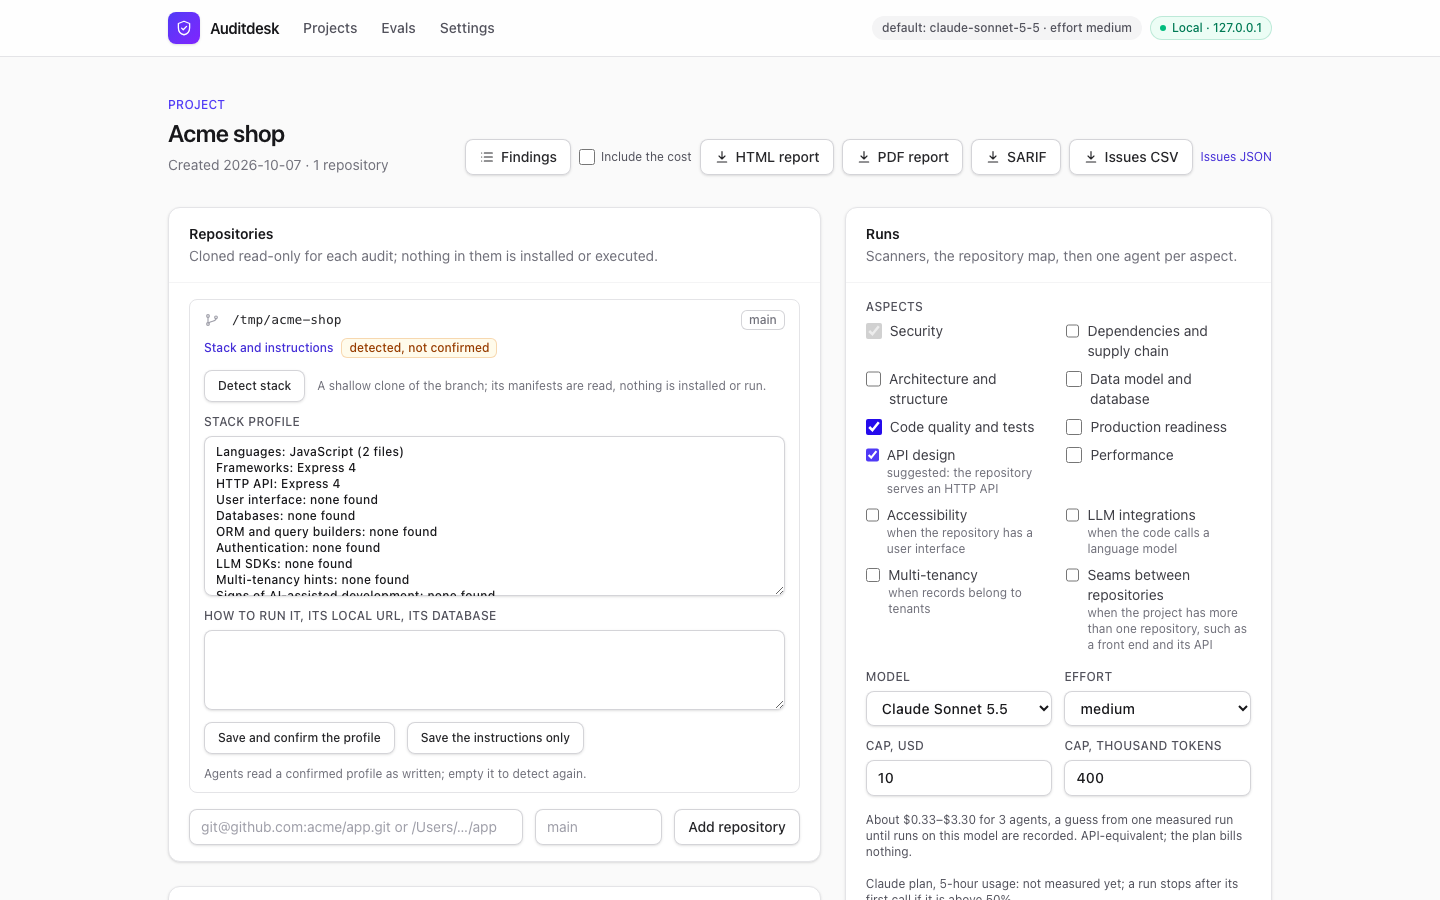
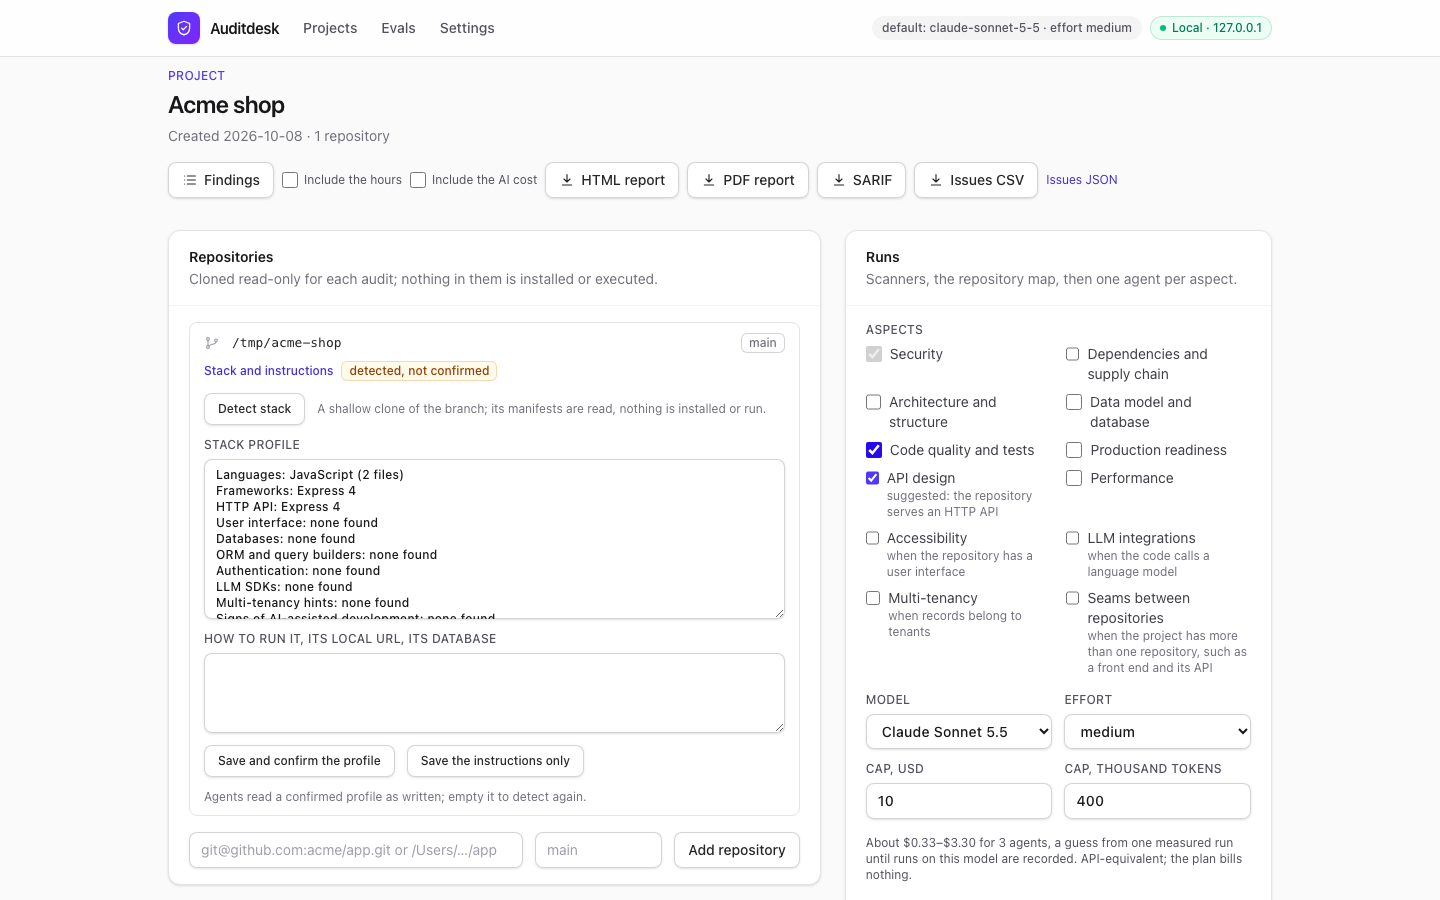
fix(effort): the review's findings on the hours
- The summary names a list with nothing sized ("no estimate to fix before sign-off") and the
  findings left out of the totals by label, instead of dropping them without a word.
- The legend of the sizes shows whenever a card shows one, a question's included.
- The migration resizes a finding whose hours it copies, and lifts 0 h to 1 h.
- Hours above 999 are refused, so a model's absurd range is sent back to it instead of failing
  the run at the integer column.
- The editor's two fields are read by hoursFrom, under test; the Issues CSV route is tested with
  and without hours, and exportOptions too.
- The tour exports with the hours; the README's findings and project shots are retaken.
- Design citations and the scanners' sizing corrected.

diff --git a/src/engine/report/render.ts b/src/engine/report/render.ts
@@ -249,18 +249,16 @@ document.addEventListener("click",ev=>{if(ev.defaultPrevented||ev.button||ev.met
 const a=ev.target.closest&&ev.target.closest('a[href^="#"]');if(a)reveal(decodeURIComponent(a.getAttribute("href").slice(1)))});
 window.addEventListener("hashchange",fromHash);fromHash();label();})();`;
 
-/** The effort line and the sizes' legend: by size alone, or in hours when the export includes them. */
-function effortSummary(fixFirst: ReportFinding[], canWait: ReportFinding[], hours: boolean): { line: string; legend?: string } | null {
+/** The effort line: findings counted by size, or their hours totalled per list when the export includes them. */
+function effortSummary(fixFirst: ReportFinding[], canWait: ReportFinding[], hours: boolean): string | null {
     const all = [...fixFirst, ...canWait];
     if (!all.length) return null;
-    const unsized = all.filter(f => !f.effort && !f.effortHours).length;
-    if (unsized === all.length) return { line: "Effort: not estimated." };
-    const notSized = unsized ? [`${unsized} not sized`] : [];
-    const legend = `Sizes: ${SIZES.map(s => `${s.size} ${s.span}`).join(", ")}.`;
+    const unsized = all.filter(f => !f.effort && !f.effortHours);
+    if (unsized.length === all.length) return "Effort: not estimated.";
     if (!hours) {
         const counts = SIZES.map(s => [all.filter(f => f.effort === s.size).length, s.size] as const).filter(([n]) => n);
         const parts = counts.map(([n, size], i) => `${i ? n : plural(n, "finding", "findings")} sized ${size}`);
-        return { line: `Estimated effort: ${listed([...parts, ...notSized])}.`, legend };
+        return `Estimated effort: ${listed([...parts, ...(unsized.length ? [`${unsized.length} not sized`] : [])])}.`;
     }
     const groups = (
         [
@@ -268,16 +266,26 @@ function effortSummary(fixFirst: ReportFinding[], canWait: ReportFinding[], hour
             ["for what can wait", canWait]
         ] as const
     )
-        .map(([what, list]) => ({ what, list, total: totalHours(list) }))
-        .filter(g => g.list.length > g.total.unsized);
-    const whole = totalHours(all);
-    const line =
-        `Estimated effort: ${groups.map(g => `${formatTotal(g.total)} ${g.what}`).join(" and ")}` +
-        (groups.length > 1 ? `, ${formatTotal(whole)} in all` : "") +
-        (unsized ? `, plus ${plural(unsized, "finding", "findings")} not sized` : "") +
-        ".";
-    const bySize = whole.bySize ? ` Findings without hours count at the range of their size: ${BY_SIZE_TEXT.join(", ")}.` : "";
-    return { line, legend: legend + bySize };
+        .filter(([, list]) => list.length)
+        .map(([what, list]) => {
+            const total = totalHours(list);
+            return { what, total, sized: list.length > total.unsized };
+        });
+    return (
+        `Estimated effort: ${groups.map(g => (g.sized ? `${formatTotal(g.total)} ${g.what}` : `no estimate ${g.what}`)).join(" and ")}` +
+        (groups.filter(g => g.sized).length > 1 ? `, ${formatTotal(totalHours(all))} in all` : "") +
+        "." +
+        (unsized.length ? ` Not sized, so left out of the totals: ${listed(unsized.map(f => f.label))}.` : "")
+    );
+}
+
+/** Whenever a card shows a size, a question's too; with hours, how a size alone counts in the totals. */
+function sizesLegend(findings: ReportFinding[], questions: ReportFinding[], hours: boolean): string | null {
+    if (![...findings, ...questions].some(f => f.effort)) return null;
+    const legend = `Sizes: ${SIZES.map(s => `${s.size} ${s.span}`).join(", ")}.`;
+    return hours && totalHours(findings).bySize
+        ? `${legend} Findings without hours count at the range of their size: ${BY_SIZE_TEXT.join(", ")}.`
+        : legend;
 }
 
 /** The model calls' cost: billed dollars and the plan's API-equivalent ones never added together. */
@@ -388,7 +396,8 @@ export function renderReport(d: ReportData): string {
         list.length
             ? `<ul class="risks">${list.map(f => `<li>${badge(f)}<a class="fid" href="#${e(f.label)}">${e(f.label)}</a><span>${e(f.title)}</span><span class="aside">${e(aside(f))}</span></li>`).join("")}</ul>`
             : `<p class="muted">${e(none)}</p>`;
-    const effort = effortSummary(fixFirst, canWait, d.hours);
+    const effortLine = effortSummary(fixFirst, canWait, d.hours);
+    const legend = sizesLegend(findings, d.questions, d.hours);
     const titleList = (list: ReportFinding[]) =>
         list.length
             ? `<ul>${list.map(f => `<li>${badge(f)}<a class="fid" href="#${e(f.label)}">${e(f.label)}</a><span>${e(f.title)}</span></li>`).join("")}</ul>`
@@ -509,8 +518,8 @@ ${riskList(fixFirst, "Nothing needs fixing before sign-off.")}
 ${canWait.length ? `<p class="muted">Still to fix, after sign-off.</p>` : ""}
 ${riskList(canWait, "Nothing else was found.")}
 ${d.questions.length ? `<p>${d.questions.length === 1 ? "1 open question needs the team's answer." : `${d.questions.length} open questions need the team's answers.`}</p>` : ""}
-${effort ? `<p>${e(effort.line)}</p>` : ""}
-${effort?.legend ? `<p class="muted">${e(effort.legend)}</p>` : ""}
+${effortLine ? `<p>${e(effortLine)}</p>` : ""}
+${legend ? `<p class="muted">${e(legend)}</p>` : ""}
 </section>
 ${since(d, findings)}
 

diff --git a/src/engine/report/render.test.ts b/src/engine/report/render.test.ts
@@ -735,11 +735,39 @@ describe("renderReport", () => {
                     hours: true,
                     findings: [
                         finding({ label: "F-001", severity: "critical", effort: "L" }),
-                        finding({ label: "F-002", severity: "low", effort: null })
+                        finding({ label: "F-002", severity: "high", effort: null }),
+                        finding({ label: "F-003", severity: "low", effort: "S", effortHours: { low: 1, high: 2 } })
                     ]
                 })
             );
-            expect(summary(html)).toContain("Estimated effort: 16 h or more to fix before sign-off, plus 1 finding not sized.");
+            expect(summary(html)).toContain(
+                "Estimated effort: 16 h or more to fix before sign-off and 1–2 h for what can wait, 17 h or more in all. Not sized, so left out of the totals: F-002."
+            );
+        });
+
+        it("says a list has no estimate when none of its findings is sized", () => {
+            const html = renderReport(
+                data({
+                    hours: true,
+                    findings: [
+                        finding({ label: "F-001", severity: "critical", effort: null }),
+                        finding({ label: "F-002", severity: "low", effort: "M", effortHours: { low: 4, high: 8 } })
+                    ]
+                })
+            );
+            expect(summary(html)).toContain(
+                "Estimated effort: no estimate to fix before sign-off and 4–8 h for what can wait. Not sized, so left out of the totals: F-001."
+            );
+        });
+
+        it("gives the legend whenever a card shows a size, a question's included", () => {
+            const question = finding({ label: "F-003", severity: null, effort: "S" });
+            const legend = "Sizes: S up to 2 hours, M up to 2 days, L over 2 days.";
+            expect(summary(renderReport(data({ findings: [], questions: [question] })))).toContain(legend);
+            const unsized = summary(renderReport(data({ findings: [finding({ effort: null })], questions: [question] })));
+            expect(unsized).toContain("Effort: not estimated.");
+            expect(unsized).toContain(legend);
+            expect(summary(renderReport(data({ findings: [finding({ effort: null })] })))).not.toContain("Sizes:");
         });
     });
 

diff --git a/src/app/ReportExport.tsx b/src/app/ReportExport.tsx
@@ -7,9 +7,9 @@ const count = (n: number, noun: string) => `${n} ${noun}${n === 1 ? "" : "s"}`;
 
 /**
  * The report downloads, with the findings' hours and the run's cost stated only when Andrii ticks
- * them (design § 8). SARIF is one file per repository, since an upload goes to one; the button's
- * name and value carry it. What awaits review is named beside them: the exports leave it out, and
- * an empty file looks broken.
+ * them (cost: design § 8; hours: § 10). SARIF is one file per repository, since an upload goes to
+ * one; the button's name and value carry it. What awaits review is named beside them: the exports
+ * leave it out, and an empty file looks broken.
  */
 export async function ReportExport({ projectId }: { projectId: string }) {
     const repositories = await reportRepositoryNames(projectId);
@@ -28,7 +28,10 @@ export async function ReportExport({ projectId }: { projectId: string }) {
                     <input type="checkbox" name="hours" value="1" className="size-4 rounded border-zinc-300 accent-indigo-600" />
                     Include the hours
                 </label>
-                <label className="flex items-center gap-1.5 text-xs text-zinc-600" title="What the model calls cost, in the HTML and the PDF">
+                <label
+                    className="flex items-center gap-1.5 text-xs text-zinc-600"
+                    title="What the model calls cost, in the HTML and the PDF"
+                >
                     <input type="checkbox" name="cost" value="1" className="size-4 rounded border-zinc-300 accent-indigo-600" />
                     Include the AI cost
                 </label>

diff --git a/src/app/review-actions.ts b/src/app/review-actions.ts
@@ -4,6 +4,7 @@ import { revalidatePath } from "next/cache";
 import { redirect } from "next/navigation";
 
 import type { FormState } from "@/app/actions";
+import { hoursFrom } from "@/engine/effort";
 import { readPlanUsage, reserveRefusal } from "@/engine/plan-usage";
 import type { SeverityName } from "@/engine/types";
 import { prisma } from "@/server/db";
@@ -53,9 +54,6 @@ export async function excludeAction(id: string, _prev: FormState, fd: FormData):
 }
 
 export async function editAction(id: string, _prev: FormState, fd: FormData): Promise<FormState> {
-    // One end alone is a single number of hours.
-    const low = optional(fd, "effortHoursLow");
-    const high = optional(fd, "effortHoursHigh");
     const r = await refusal(() =>
         edit(id, {
             title: text(fd, "title"),
@@ -66,7 +64,7 @@ export async function editAction(id: string, _prev: FormState, fd: FormData): Pr
             explanation: text(fd, "explanation"),
             recommendation: text(fd, "recommendation"),
             effort: optional(fd, "effort") as "S" | "M" | "L" | null,
-            effortHours: low || high ? { low: Number(low ?? high), high: Number(high ?? low) } : null,
+            effortHours: hoursFrom(optional(fd, "effortHoursLow"), optional(fd, "effortHoursHigh")),
             fixBeforeSignoff: { before: true, later: false }[text(fd, "signoff")] ?? null,
             note: optional(fd, "note")
         })

diff --git a/src/engine/effort.test.ts b/src/engine/effort.test.ts
@@ -1,6 +1,6 @@
 import { describe, expect, it } from "vitest";
 
-import { formatHours, formatTotal, hoursError, sizeAndHours, sizeOf, totalHours } from "./effort";
+import { formatHours, formatTotal, hoursError, hoursFrom, sizeAndHours, sizeOf, totalHours } from "./effort";
 
 describe("effort", () => {
     it("sizes a range by its high end, so the letter never contradicts the hours", () => {
@@ -25,6 +25,14 @@ describe("effort", () => {
         expect(hoursError({ low: 0, high: 2 })).toMatch(/from 1/);
         expect(hoursError({ low: 1.5, high: 2 })).toMatch(/whole/);
         expect(hoursError({ low: 4, high: 2 })).toMatch(/low .* high/);
+        expect(hoursError({ low: 1, high: 1000 })).toMatch(/split/);
+    });
+
+    it("reads the editor's two fields: both, one alone as a single number, or neither", () => {
+        expect(hoursFrom("2", "4")).toEqual({ low: 2, high: 4 });
+        expect(hoursFrom(null, "3")).toEqual({ low: 3, high: 3 });
+        expect(hoursFrom("3", null)).toEqual({ low: 3, high: 3 });
+        expect(hoursFrom(null, null)).toBeNull();
     });
 
     it("adds the hours set, counts a finding with only a size at its size's range, and leaves the unsized out", () => {

diff --git a/src/server/report.test.ts b/src/server/report.test.ts
@@ -4,7 +4,7 @@ import type { ReportData } from "@/engine/report/types";
 import { EMPTY_STACK } from "@/engine/stack";
 import { prisma } from "@/server/db";
 import { createFinding } from "@/server/findings";
-import { awaitingReview, loadReportData, reportFileName } from "@/server/report";
+import { awaitingReview, exportOptions, loadReportData, reportFileName } from "@/server/report";
 import { resetDb } from "@/test/db";
 import { projectWithRepo, sampleFinding } from "@/test/factories";
 
@@ -378,6 +378,11 @@ describe("the cost in the report", () => {
 });
 
 describe("the hours in the report", () => {
+    it("reads both boxes from the export's query", () => {
+        expect(exportOptions("http://127.0.0.1/p/report?hours=1&cost=1")).toEqual({ includeCost: true, includeHours: true });
+        expect(exportOptions("http://127.0.0.1/p/report")).toEqual({ includeCost: false, includeHours: false });
+    });
+
     it("carries each finding's hours only when the export asks for them", async () => {
         const { project, repo } = await projectWithRepo();
         const f = await createFinding(project.id, null, sampleFinding(repo.id, { effort: "M", effortHours: { low: 2, high: 4 } }));

diff --git a/e2e/tour.spec.ts b/e2e/tour.spec.ts
@@ -115,12 +115,12 @@ test("tour of the features", async ({ page }) => {
     await page.locator('select[name="signoff"]').selectOption("before");
     await shot("07-finding-edit-signoff", { fullPage: true });
 
-    // The report: cover, summary, scope with the cost, a finding with its references, the filters.
+    // The report: cover, summary with the hours, scope with the cost, a finding with its references, the filters.
     const base = findingsUrl.replace(/\/findings.*$/, "");
-    const html = await (await page.request.get(`${base}/report?cost=1`)).text();
+    const html = await (await page.request.get(`${base}/report?cost=1&hours=1`)).text();
     const file = join(out, "report.html");
     writeFileSync(file, html);
-    writeFileSync(join(out, "report.pdf"), await (await page.request.get(`${base}/report/pdf?cost=1`)).body());
+    writeFileSync(join(out, "report.pdf"), await (await page.request.get(`${base}/report/pdf?cost=1&hours=1`)).body());
     await page.goto(`file://${file}`);
     await shot("08-report-cover");
     await part("09-report-summary", "section#summary");

diff --git a/src/app/projects/[projectId]/report/sarif/route.test.ts b/src/app/projects/[projectId]/report/sarif/route.test.ts
@@ -63,6 +63,13 @@ describe("the SARIF and issue exports", () => {
         expect(csv).not.toContain("Not reviewed yet");
     });
 
+    it("gives the hours in the CSV only when the download asks for them", async () => {
+        const id = await project();
+        await prisma.finding.updateMany({ where: { projectId: id, status: "accepted" }, data: { effortHoursLow: 2, effortHoursHigh: 4 } });
+        expect(await (await get(issues, id, "issues")).text()).toContain("**Effort:** S (up to 2 hours)");
+        expect(await (await get(issues, id, "issues?hours=1")).text()).toContain("**Effort:** S (2–4 h)");
+    });
+
     it("serves the same drafts as JSON for pnpm issues:gh", async () => {
         const res = await get(issues, await project(), "issues?format=json");
         expect(res.headers.get("content-type")).toBe("application/json");

diff --git a/src/engine/effort.ts b/src/engine/effort.ts
@@ -25,8 +25,14 @@ export function hoursError(h: Hours): string | null {
     if (!Number.isInteger(h.low) || !Number.isInteger(h.high)) return "Hours are whole numbers.";
     if (h.low < 1) return "Hours start from 1.";
     if (h.low > h.high) return "The low end of the hours is above the high end.";
+    // The column is a 4-byte integer, and a fix this large is several findings.
+    if (h.high > 999) return "Over 999 hours is not one fix; split the finding.";
     return null;
 }
+
+/** The editor's two fields; one end alone is a single number. */
+export const hoursFrom = (low: string | null, high: string | null): Hours | null =>
+    low || high ? { low: Number(low ?? high), high: Number(high ?? low) } : null;
 
 export const formatHours = (h: Hours) => (h.low === h.high ? `${h.low} h` : `${h.low}–${h.high} h`);
 

diff --git a/src/server/report.ts b/src/server/report.ts
@@ -123,8 +123,8 @@ export function exportOptions(url: string): { includeCost: boolean; includeHours
 }
 
 /**
- * `includeCost` and `includeHours`: Andrii ticked them at export (design § 8); otherwise the report
- * states no cost, and the effort by size alone.
+ * `includeCost` and `includeHours`: Andrii ticked them at export (cost: design § 8; hours: § 10);
+ * otherwise the report states no cost, and the effort by size alone.
  */
 export async function loadReportData(projectId: string, o: { includeCost?: boolean; includeHours?: boolean } = {}): Promise<ReportData> {
     const project = await prisma.project.findUniqueOrThrow({

diff --git a/docs/design.md b/docs/design.md
@@ -128,8 +128,8 @@ A finding has a stable ID per project (`F-012` means the same issue in a call, a
 next report), a severity, likelihood and impact, a summary for a founder, an explanation for
 engineers, evidence as file and line ranges with the code (masked), a recommendation and an
 effort: the agent's hours for the fix as a range, and the size they fall in by their high end (S up
-to 2 hours, M up to 2 days, L more). A scanner sizes its findings by their places alone. What code
-cannot show (backups, alerting) is filed as a question.
+to 2 hours, M up to 2 days, L more). Semgrep and gitleaks size their findings by their places; an
+OSV finding is S. What code cannot show (backups, alerting) is filed as a question.
 
 The auditor accepts, edits, merges, rejects (kept with the reason, as data on false positives)
 or excludes each finding, and may move it between "fix before sign-off" and "can wait". An edit of
